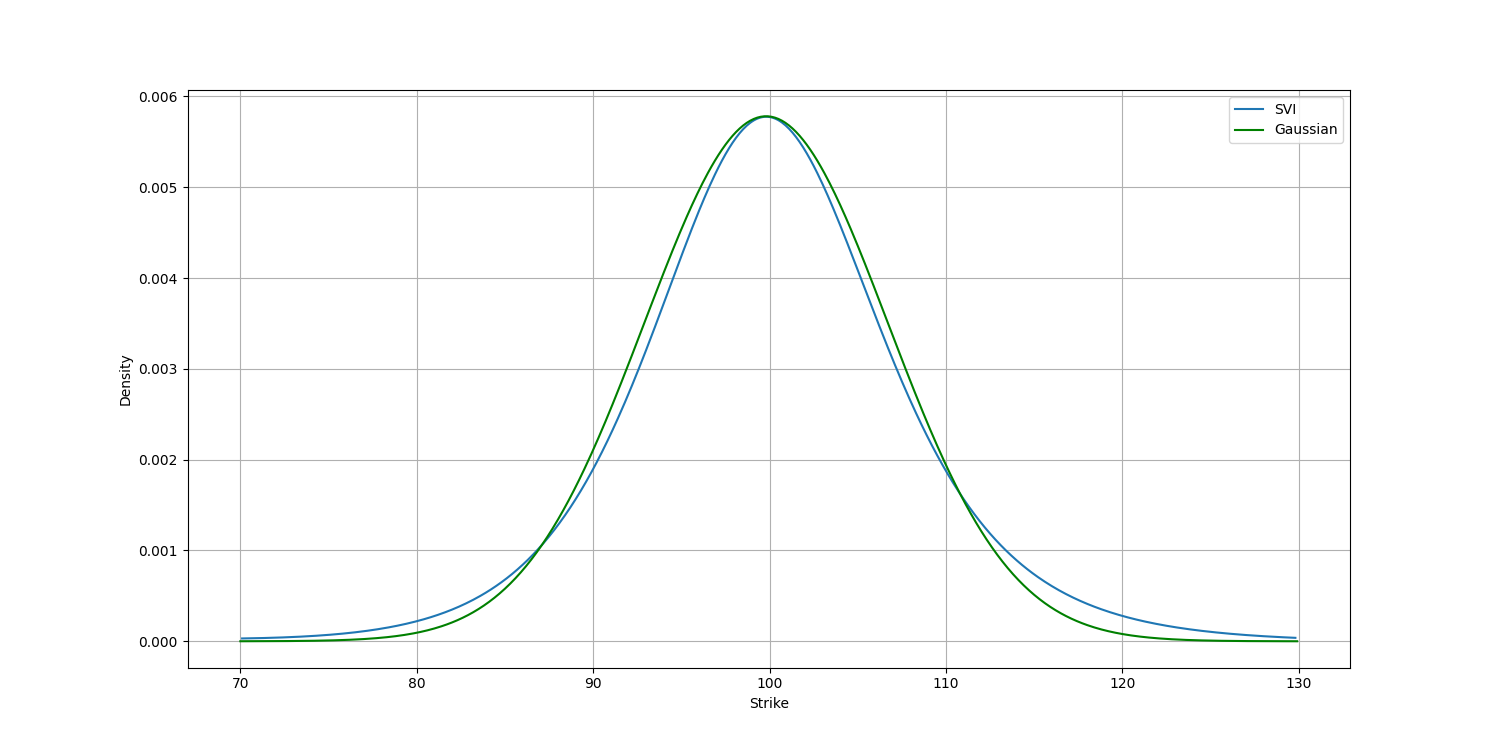
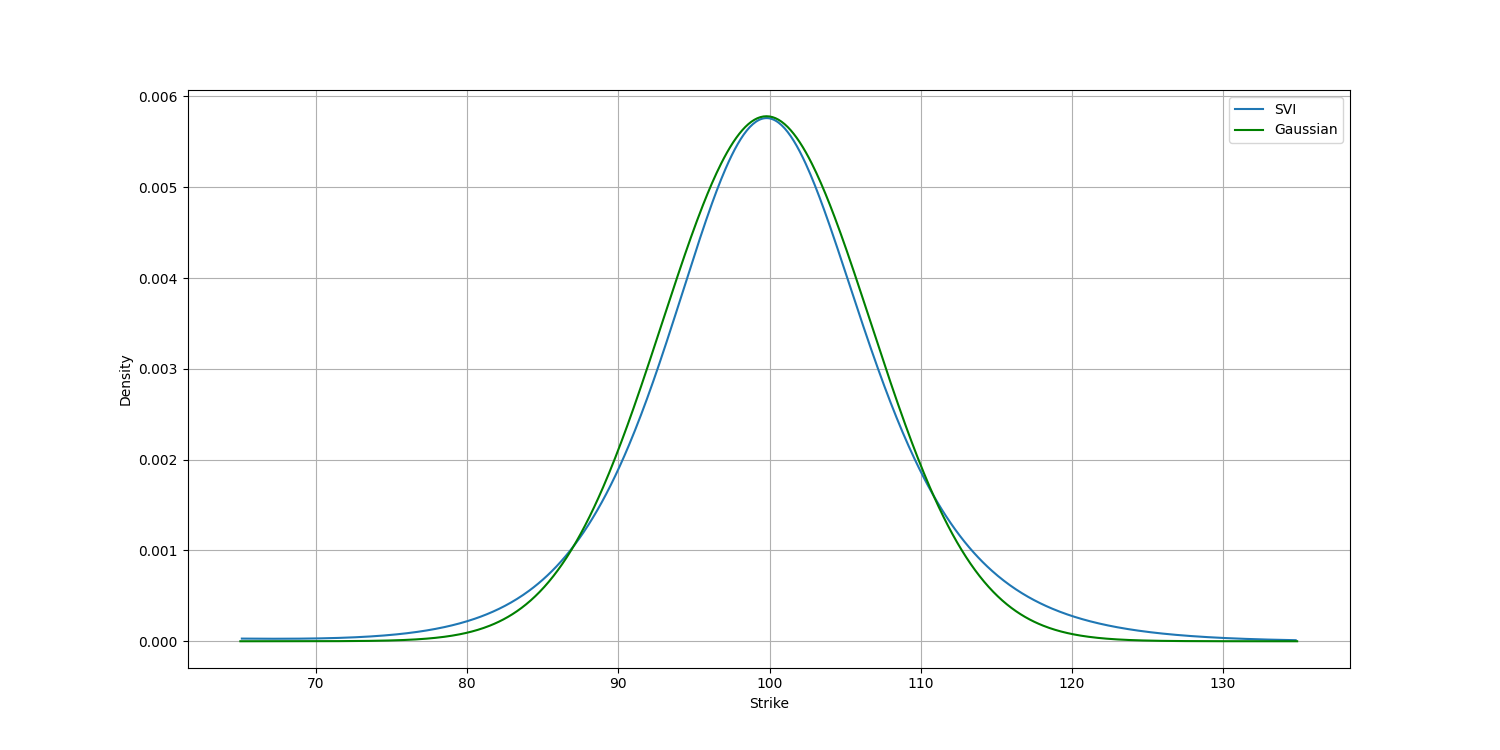
Patched Metropolis Hasting Algo

diff --git a/project.py b/project.py
@@ -98,7 +98,7 @@ fig3.savefig('results/1.3_SVI_Calibration.png')
 
 # Create Interpolated/Extrapolated Risk Neutral Density Dataframe (12M)
 df_density_bis = pd.DataFrame()
-df_density_bis["Strike"] = np.arange(70, 130, 0.1)
+df_density_bis["Strike"] = np.arange(65, 135, 0.1)
 df_density_bis["IV (SVI)"] = df_density_bis.apply(
     lambda x: np.sqrt(svi.SVI(k=np.log(x["Strike"] / 100), a_=SVI_params["a_"], b_=SVI_params["b_"],
                               rho_=SVI_params["rho_"], m_=SVI_params["m_"], sigma_=SVI_params["sigma_"])), axis=1)
@@ -128,11 +128,19 @@ fig4.savefig('results/1.4_SVI_Density.png')
 
 
 # --------------------------- PART 1.2 : METROPOLIS HASTINGS ALGORITHM ------------
-#We calibrated a gaussian density N (99.8, 6.9), we will therefore use these parameters in the algo
-def target_distrib(x, mu, sigma):
-    numerator = np.exp((-(x - mu) ** 2) / (2 * sigma ** 2))
-    denominator = sigma * np.sqrt(2 * np.pi)
-    return numerator / denominator
+
+def target_distrib(x):
+    # We calibrated a gaussian density N (99.8, 6.9), we will therefore use these parameters in the algo
+    if not 66 < x < 134:
+        mu = 99.8
+        sigma = 6.9
+        numerator = np.exp((-(x - mu) ** 2) / (2 * sigma ** 2))
+        denominator = sigma * np.sqrt(2 * np.pi)
+        target = numerator / denominator
+    else:
+        interp_function = interp1d(x=df_density_bis["Strike"], y=df_density_bis["Density (SVI)"], kind='cubic')
+        target = interp_function(x)
+    return target
 
 N = 100000
 x = np.arange(N, dtype=float)
@@ -143,7 +151,8 @@ for i in range(0, N - 1):
     if i % 10000 == 0:
         print(i)
     x_next = np.random.normal(x[i], 1)
-    if np.random.random_sample() < min(1, target_distrib(x_next, 99.8, 6.9) / target_distrib(x[i], 99.8, 6.9)):
+    #if np.random.random_sample() < min(1, target_distrib(x_next, 99.8, 6.9) / target_distrib(x[i], 99.8, 6.9)):
+    if np.random.random_sample() < min(1, target_distrib(x_next) / target_distrib(x[i])):
         x[i + 1] = x_next
         counter = counter + 1
     else:
@@ -153,7 +162,7 @@ print("acceptance fraction is ", counter / float(N))
 
 # Plot Graph: Histogram of x
 fig76, axs76 = plt.subplots(nrows=1, ncols=1, figsize=(15, 7.5))
-axs76.hist(x, density = True, bins=50, color='blue', label="Density")
+axs76.hist(x, density=True, bins=50, color='blue', label="Density")
 axs76.grid()
 axs76.set_xlabel("Strike")
 axs76.set_ylabel("Density")
